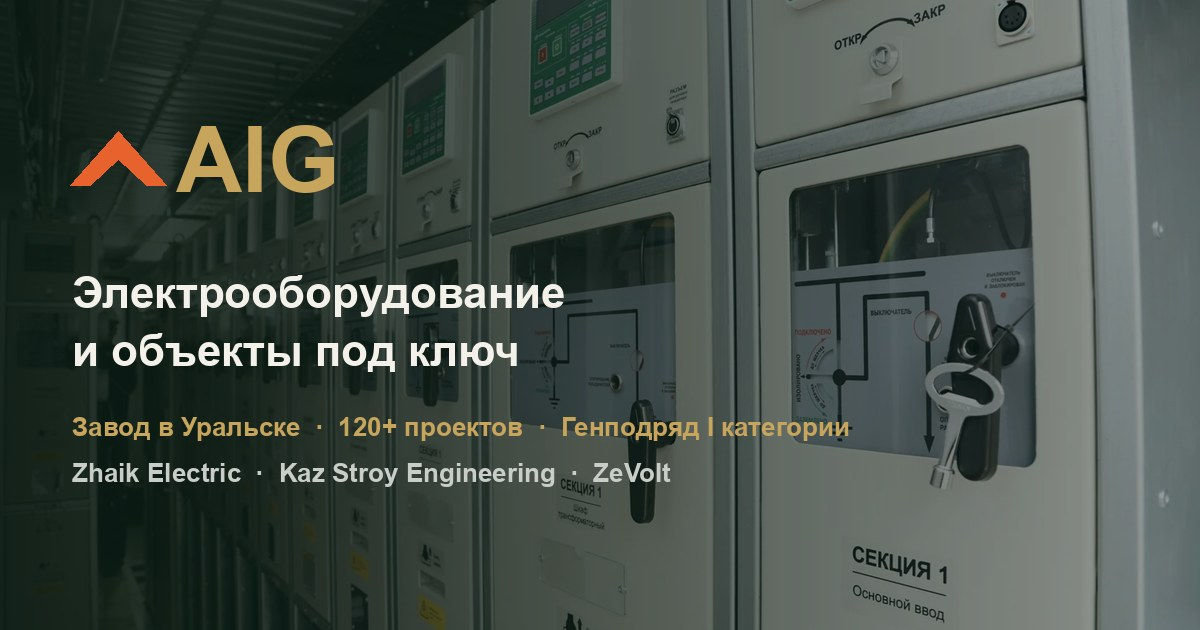
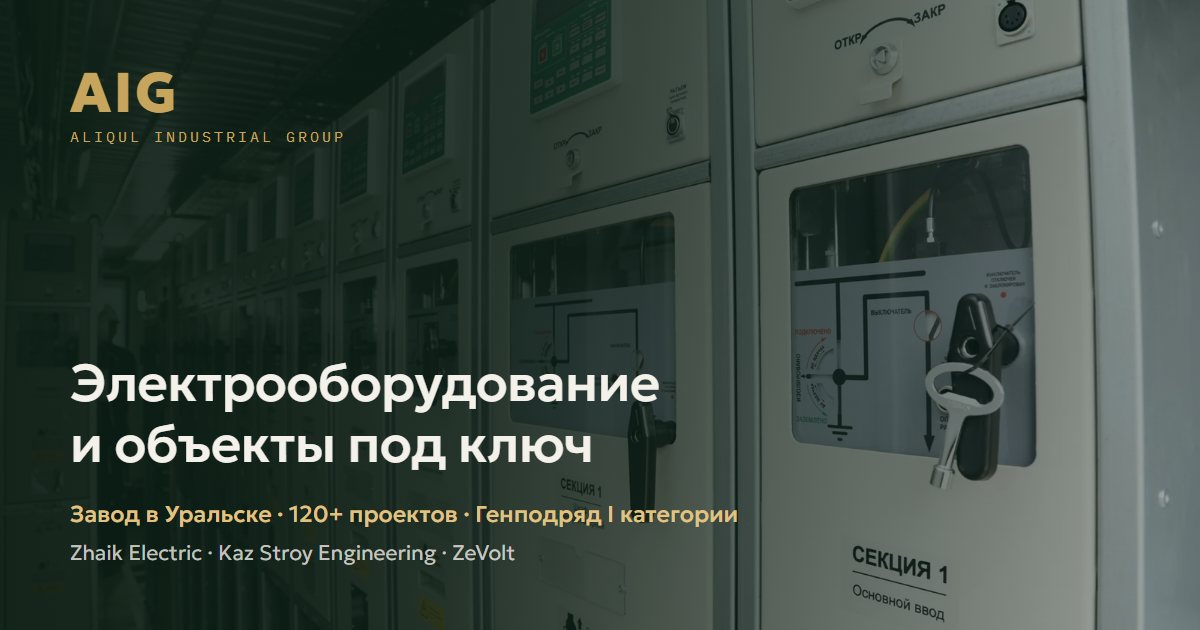
Логотип: убран шеврон, золотые буквы; новые фавикон и og-image
Claude-Session: https://claude.ai/code/session_01T2nc8onwn73wtPiUX9Lct6

Changed region(s): [[0.0617, 0.0, 0.7092, 0.9048], [0.0617, 0.0905, 0.1542, 0.181], [0.3392, 0.9651, 0.37, 0.9952]]

diff --git a/index.html b/index.html
@@ -17,12 +17,14 @@
   <meta name="twitter:title" content="AIG - электрооборудование и объекты под ключ">
   <meta name="twitter:description" content="Завод электрооборудования, генподряд I категории и сервис в одной группе. Уральск, 120+ проектов.">
   <meta name="twitter:image" content="https://lp.aig-su.kz/assets/og-image.jpg">
-  <link rel="icon" href="favicon.ico" sizes="48x48">
-  <link rel="apple-touch-icon" href="assets/apple-touch-icon.png">
+  <link rel="icon" href="favicon.ico" sizes="16x16 32x32 48x48">
+  <link rel="icon" type="image/png" sizes="16x16" href="assets/icon-16.png">
+  <link rel="icon" type="image/png" sizes="32x32" href="assets/icon-32.png">
+  <link rel="apple-touch-icon" href="assets/apple-touch-icon-aig.png">
   <link rel="preconnect" href="https://fonts.googleapis.com">
   <link rel="preconnect" href="https://fonts.gstatic.com" crossorigin>
   <link href="https://fonts.googleapis.com/css2?family=Geologica:wght@300;400;500;600;700;800&family=IBM+Plex+Mono:wght@400;500&display=swap" rel="stylesheet">
-  <link rel="stylesheet" href="styles.css?v=20260902-1">
+  <link rel="stylesheet" href="styles.css?v=20260902-2">
   <script type="application/ld+json">
   {
     "@context": "https://schema.org",
@@ -50,7 +52,6 @@
 <header class="header" id="header">
   <div class="hdr-in">
     <a class="logo" href="#top" aria-label="AIG - наверх">
-      <svg class="logo-mark" viewBox="0 0 48 48" aria-hidden="true"><path fill="#e8622d" d="M6 38 24 8l18 30h-9L24 23 15 38z"/></svg>
       <span class="logo-text">AIG<small>Aliqul Industrial Group</small></span>
     </a>
     <nav class="nav" aria-label="Разделы страницы">
@@ -541,7 +542,6 @@
 <footer class="footer">
   <div class="wrap foot-in">
     <a class="logo" href="#top" aria-label="AIG - наверх">
-      <svg class="logo-mark" viewBox="0 0 48 48" aria-hidden="true"><path fill="#e8622d" d="M6 38 24 8l18 30h-9L24 23 15 38z"/></svg>
       <span class="logo-text">AIG<small>Aliqul Industrial Group</small></span>
     </a>
     <nav class="foot-nav" aria-label="Разделы страницы">
@@ -569,6 +569,6 @@
   <a class="sb-wa" href="https://wa.me/77010702700" target="_blank" rel="noopener" data-cta="whatsapp">WhatsApp</a>
 </div>
 
-<script src="script.js?v=20260902-1" defer></script>
+<script src="script.js?v=20260902-2" defer></script>
 </body>
 </html>

diff --git a/styles.css b/styles.css
@@ -123,10 +123,9 @@ h2 { font-size: clamp(30px, 4.6vw, 52px); margin-bottom: 18px; }
   align-items: center;
   gap: 28px;
 }
-.logo { display: flex; align-items: center; gap: 11px; position: relative; z-index: 72; }
-.logo-mark { width: 34px; height: 34px; flex: none; }
+.logo { display: flex; align-items: center; position: relative; z-index: 72; }
 .logo-text {
-  color: #f4f1ea;
+  color: var(--gold);
   font-weight: 800;
   font-size: 22px;
   letter-spacing: .04em;
@@ -141,7 +140,7 @@ h2 { font-size: clamp(30px, 4.6vw, 52px); margin-bottom: 18px; }
   font-size: 9px;
   letter-spacing: .18em;
   text-transform: uppercase;
-  color: var(--gold);
+  color: rgba(200, 165, 92, .66);
 }
 .nav { display: flex; gap: 26px; margin-left: 12px; }
 .nav a {
